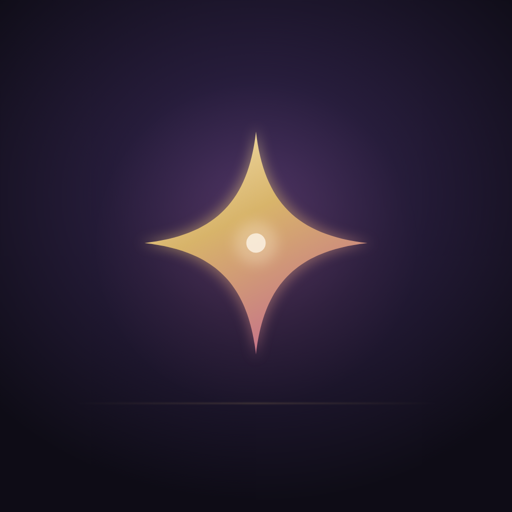
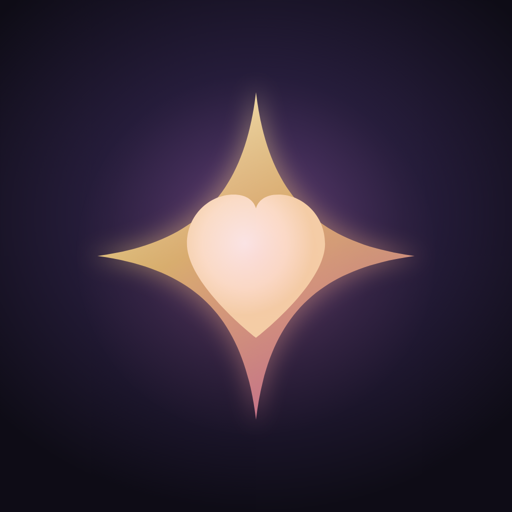
图标定版（星芒孕心）+ 填写联系邮箱
图标：确定采用「星芒孕心」方案 —— 金色四角星芒（品牌识别）
中心嵌暖白心形（径向渐变，有体积感），呼应 Vesperine 的暮星意象。
生成 Android 5 个 dpi + Play Store 512×512。

文档：CONTACT EMAIL 9 处填为 eddie@lurvy.top

Changed region(s): [[0.1875, 0.1875, 0.8125, 0.8125]]

diff --git a/docs/privacy.html b/docs/privacy.html
@@ -51,7 +51,7 @@
 <p>
   This application ("the App") is operated by <strong>[LEGAL ENTITY NAME]</strong>,
   registered at <strong>[REGISTERED ADDRESS]</strong> ("we", "us").
-  For any privacy question, contact <a href="mailto:[CONTACT EMAIL]">[CONTACT EMAIL]</a>.
+  For any privacy question, contact <a href="mailto:eddie@lurvy.top">eddie@lurvy.top</a>.
 </p>
 
 <h2>2. What we collect</h2>
@@ -160,7 +160,7 @@
   <li>edit or delete individual conversations and memories from within the App;</li>
   <li>delete content you have posted;</li>
   <li>request a copy of your data, or request deletion of your account and its data, by writing
-      to <a href="mailto:[CONTACT EMAIL]">[CONTACT EMAIL]</a>.</li>
+      to <a href="mailto:eddie@lurvy.top">eddie@lurvy.top</a>.</li>
 </ul>
 <p>
   If you are in the European Economic Area, the United Kingdom, or Switzerland, you have
@@ -219,7 +219,7 @@
 <h2>11. Contact</h2>
 <p>
   <strong>[LEGAL ENTITY NAME]</strong><br>
-  <a href="mailto:[CONTACT EMAIL]">[CONTACT EMAIL]</a><br>
+  <a href="mailto:eddie@lurvy.top">eddie@lurvy.top</a><br>
   [REGISTERED ADDRESS]
 </p>
 

diff --git a/docs/index.html b/docs/index.html
@@ -170,7 +170,7 @@
   <div class="wrap">
     <a href="privacy.html">Privacy</a>
     <a href="terms.html">Terms</a>
-    <a href="mailto:[CONTACT EMAIL]">Contact</a>
+    <a href="mailto:eddie@lurvy.top">Contact</a>
     <div class="meta">
       Vesperine is an independent project.<br>
       © <span id="yr"></span> All rights reserved.

diff --git a/docs/terms.html b/docs/terms.html
@@ -196,7 +196,7 @@
 <h2>15. Contact</h2>
 <p>
   <strong>[LEGAL ENTITY NAME]</strong><br>
-  <a href="mailto:[CONTACT EMAIL]">[CONTACT EMAIL]</a><br>
+  <a href="mailto:eddie@lurvy.top">eddie@lurvy.top</a><br>
   [REGISTERED ADDRESS]
 </p>
 
